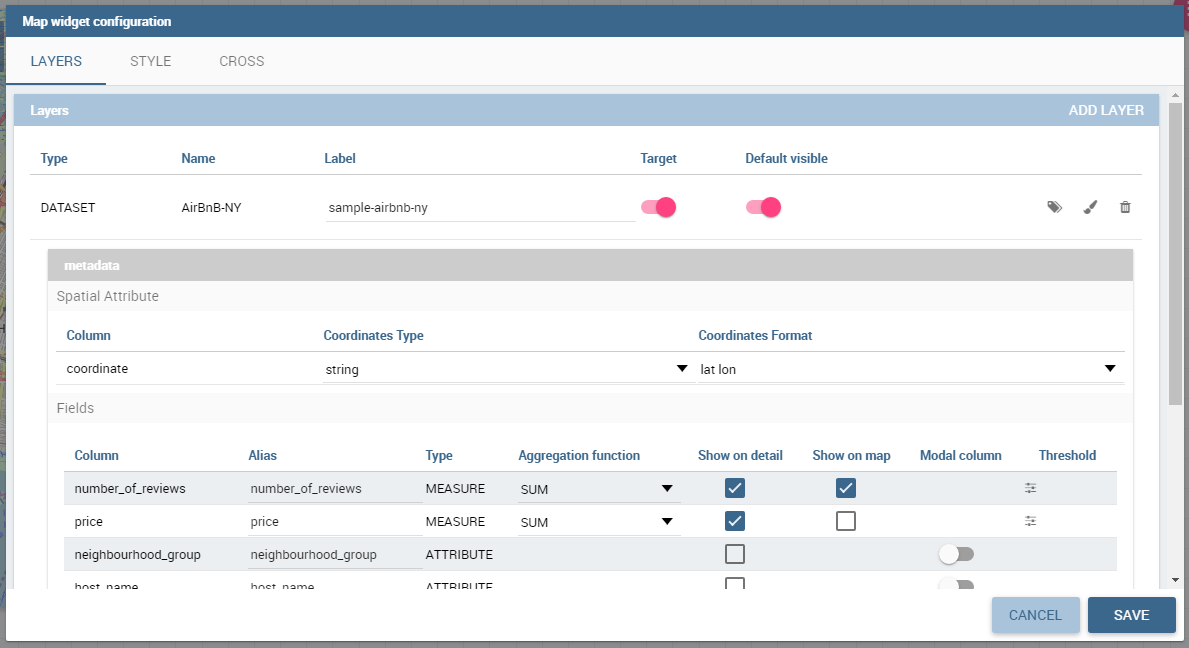
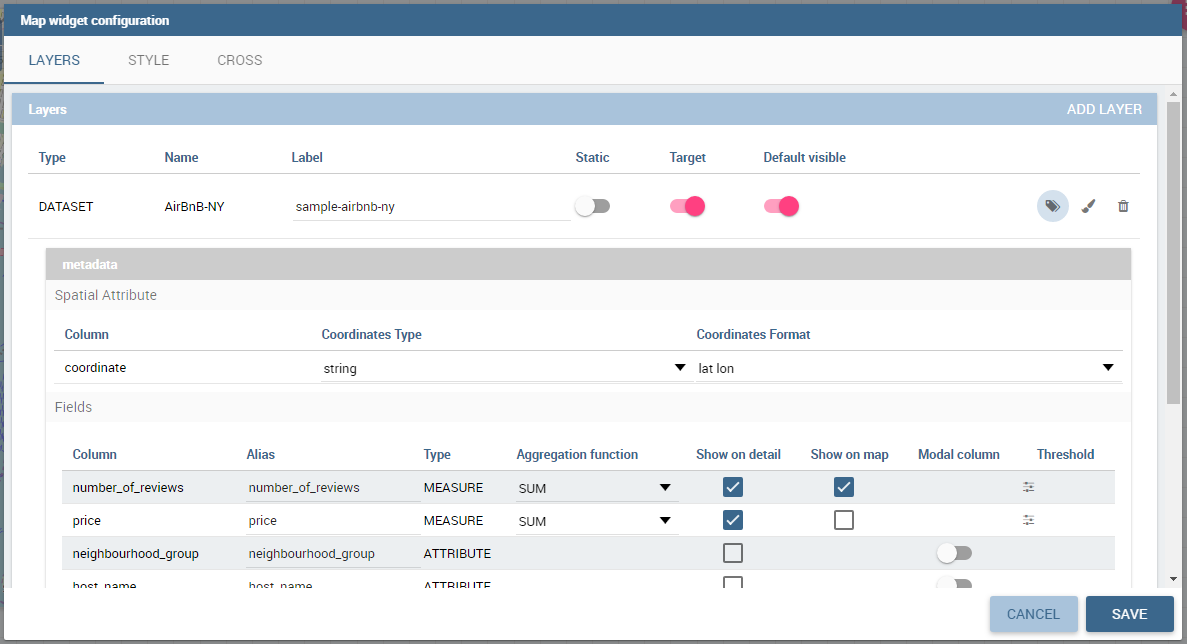
Introduce static layer on map widget

diff --git a/functionalities-guide/cockpit/index.rst b/functionalities-guide/cockpit/index.rst
@@ -609,7 +609,7 @@ In Map Widget configuration a user can add and remove layers, set the format of 
 
         Map widget configuration.
 
-Every dataset with a spatial attribute is eligible to become a layer in map widget. Only one layer of the widget can be susceptible to user selection: that layer will be the only one with **Target** slide set to on. For each layer a user can also specify its default visibility with **Default visibile** slide. With buttons |image478| and |image479| the user can set the metadata and the layer style respectively.
+Every dataset with a spatial attribute is eligible to become a layer in map widget. Only one layer of the widget can be susceptible to user selection: that layer will be the only one with **Target** slide set to on. For each layer a user can also specify its default visibility with **Default visibile** slide. Enabling **Static** switch on a layer make it visible and non clickable, useful when a user wants a fixed background layer with dynamic data from a dataset. With buttons |image478| and |image479| the user can set the metadata and the layer style respectively.
 
 .. |image478| image:: media/image478.png
    :height: 26
